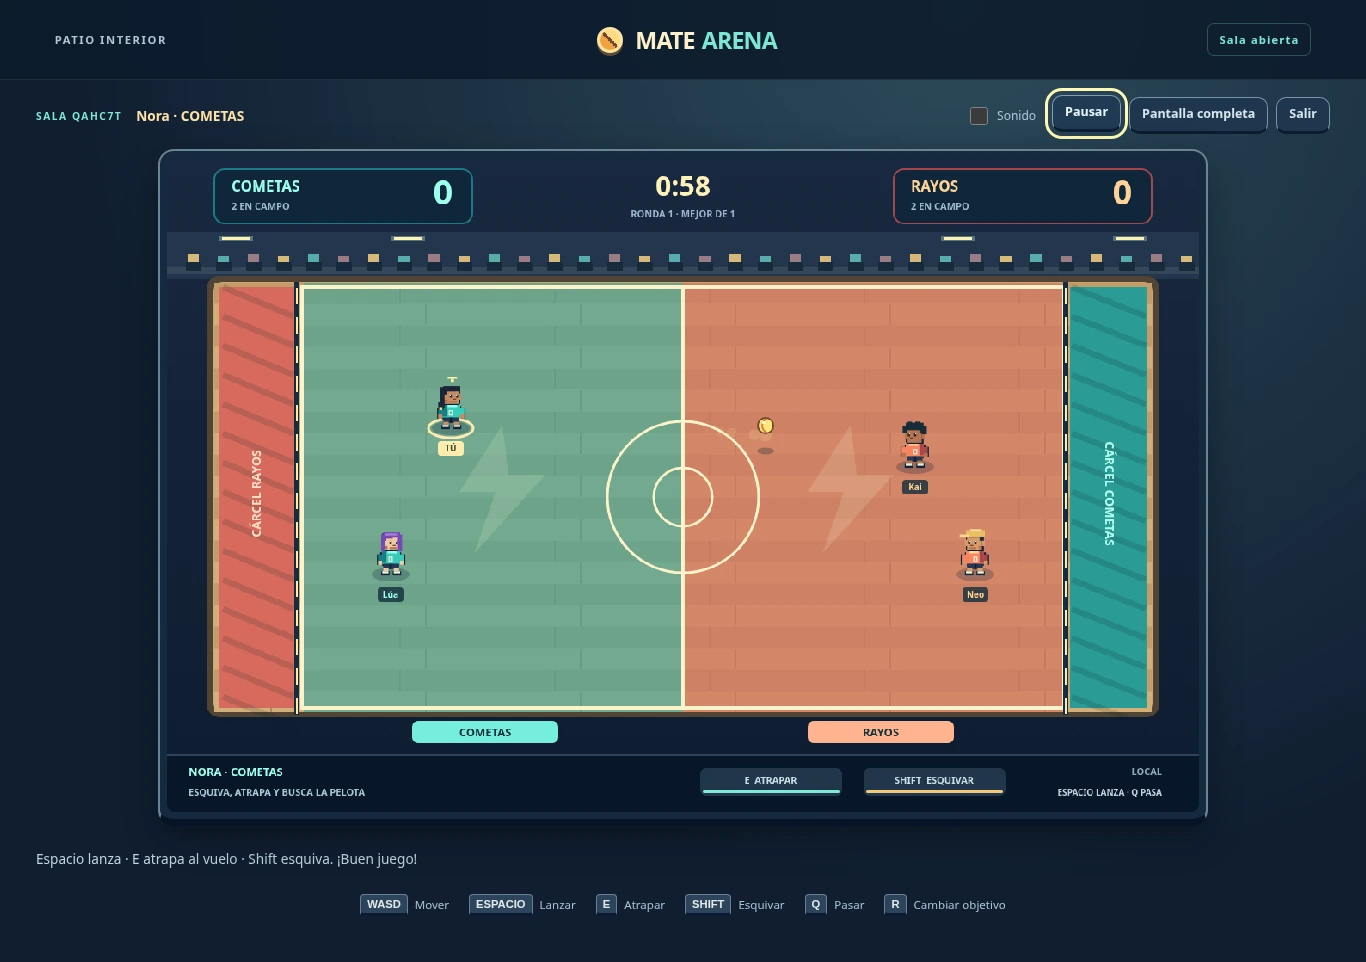
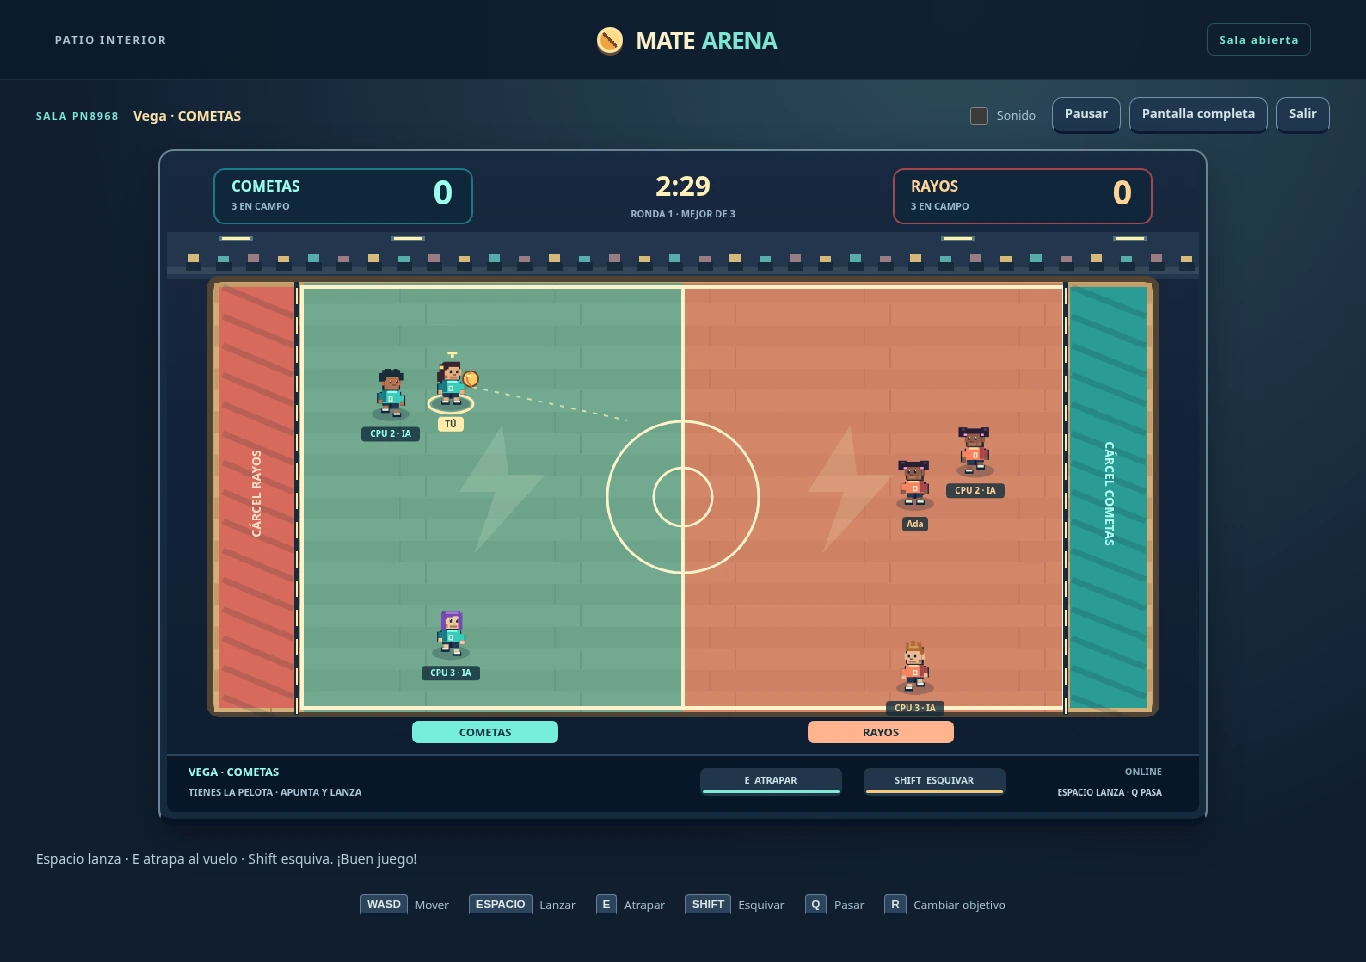
Identify online matches correctly in the court HUD

diff --git a/mate/renderer.js b/mate/renderer.js
@@ -25,7 +25,7 @@ export class ArenaRenderer {
   for(const [x,label,color] of [[370,'COMETAS','#75efdf'],[830,'RAYOS','#ffb38e']]){c.fillStyle=color;rounded(c,x-85,654,170,26,7);c.fill();text(c,label,x,668,13,'#18323e');}
   c.fillStyle='#071627';c.fillRect(0,693,1200,67);c.fillStyle='#2d455c';c.fillRect(0,693,1200,2);
  }
- render(g,localId,controls={},latency=0,now=performance.now()) {
+ render(g,localId,controls={},latency=0,now=performance.now(),online=false) {
   const c=this.ctx;c.clearRect(0,0,1200,760);c.drawImage(this.background,0,0);
   if(!g)return;
   const local=g.players.find(p=>p.id===localId),active=[0,1].map(team=>g.players.filter(p=>p.team===team&&!p.prison).length);
@@ -65,7 +65,7 @@ export class ArenaRenderer {
   if(local){
    const team=TEAM_COLORS[local.team];text(c,`${local.name.toUpperCase()} · ${team.name}`,25,714,13,team.light,'left');text(c,local.prison?'EN LA CÁRCEL: DA A UN RIVAL PARA VOLVER':b.holder===local.id?'TIENES LA PELOTA · APUNTA Y LANZA':'ESQUIVA, ATRAPA Y BUSCA LA PELOTA',25,738,11,'#a9c4d5','left');
    this.cooldown(c,620,'E  ATRAPAR',local.catchCooldown,1.05,local.catchTime>0,'#7eead7');this.cooldown(c,810,'SHIFT  ESQUIVAR',local.dashCooldown,1.4,local.dashTime>0,'#f4c779');
-   text(c,latency?`${latency} ms`:'LOCAL',1157,714,11,'#89abbd','right');text(c,'ESPACIO LANZA · Q PASA',1157,738,10,'#bdd0db','right');
+   text(c,latency?`${latency} ms`:online?'ONLINE':'LOCAL',1157,714,11,'#89abbd','right');text(c,'ESPACIO LANZA · Q PASA',1157,738,10,'#bdd0db','right');
   }
   if(g.phase!=='playing'||g.paused)this.overlay(g);
  }

diff --git a/mate/game.js b/mate/game.js
@@ -145,10 +145,10 @@ function frame(now){
    accumulator+=delta;let steps=0;
    while(accumulator>=1/60&&steps<6){if(!game.paused){setInput(game,localId,controls());consumeActions();}stepGame(game);accumulator-=1/60;steps++;}
    if(room?.isHost&&now-lastBroadcast>=66){room.broadcastState(snapshot(game));lastBroadcast=now;}
-   if(now-lastUi>100||$('game-view').dataset.phase!==game.phase){updateStateUI(game);lastUi=now;}playSound(game);renderer.render(game,localId,controls(),latency,now);
+   if(now-lastUi>100||$('game-view').dataset.phase!==game.phase){updateStateUI(game);lastUi=now;}playSound(game);renderer.render(game,localId,controls(),latency,now,mode==='online');
   } else if(remote){
    if(now-lastSend>=45&&!networkDisconnected){room?.input(controls());consumeActions();lastSend=now;}
-   if(now-lastClientDraw>32){renderer.render(interpolateRemote(now),localId,controls(),latency,now);lastClientDraw=now;}playSound(remote);
+   if(now-lastClientDraw>32){renderer.render(interpolateRemote(now),localId,controls(),latency,now,true);lastClientDraw=now;}playSound(remote);
    if(now-lastRemoteAt>4500&&!networkDisconnected&&!remote.paused){networkDisconnected=true;$('connection-message').textContent='La partida ha dejado de responder. Espera unos segundos o intenta recuperar tu plaza.';$('connection-overlay').hidden=false;clearKeys();}
   } else renderer.render(demo,null,{},0,now);
  }
